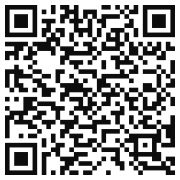
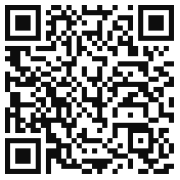
update

diff --git a/advanced/frontend/controllers/ItemController.php b/advanced/frontend/controllers/ItemController.php
@@ -92,22 +92,22 @@ class ItemController extends Controller
                 $transaction = Yii::$app->db->beginTransaction();
                 try
                 {
-              
                 $jobini=Jobs::findOne($model->namav);
                 $nie=$jobini->nie;
                 $gtin=$jobini->gtin;
                 $i++;
                 $lot=$model->lot;
                 $expire=$model->expired;
-                $serial=substr($nie, 3,6).substr($lot,2,3);
+                $serial=substr($nie, 5,6).substr($lot,3,3);
                 $mulai2=intval($model->jumlah);
                 $job =new Itemmaster();
                 $job->nama=$model->nama;
                 $job->save();
                 $idmaster=$job->id;
+                $belakang=-1*$mulai2;
                 for($mulai1=1;$mulai1<=$mulai2;$mulai1++)
                 {
-                $kodesn=$serial. substr("0000000000".$mulai1, -1 * intval($mulai2));
+                $kodesn=$serial. substr("000000".$mulai1,-3);
                 $barang = New Item();
                 $barang->var_1 = $nie;
                 $barang->var_2 = $gtin;
@@ -277,7 +277,7 @@ class ItemController extends Controller
                     $mdet->save();
                 }
                     $transaction->commit();
-                    Yii::$app->session->setFlash('success', $i.' rows Success ');
+                    Yii::$app->session->setFlash('success', $mulai1.' rows Generate Success ');
                 }
                 catch(Exception $e)
                 {

diff --git a/advanced/frontend/models/Item.php b/advanced/frontend/models/Item.php
@@ -38,9 +38,9 @@ class Item extends \yii\db\ActiveRecord
             //[['var_1'], 'string', 'max' => 200],
             [['var_1','var_2'], 'string','min' => 14, 'max' => 14],
             //[['var_4'], 'string','min' => 12, 'max' => 12],
+            [['var_3'], 'string', 'max' => 12],
             [['var_4'], 'string', 'max' => 12],
             [['biner'], 'string', 'max' => 500],
-            [['var_3'], 'string', 'max' => 12],
             //[['var_4'], 'string', 'min'=>6,'max' => 6],
             [['var_5'], 'string', 'max' => 50],
         ];

diff --git a/advanced/frontend/views/job/_columns.php b/advanced/frontend/views/job/_columns.php
@@ -30,7 +30,7 @@ return [
         'class' => 'kartik\grid\ActionColumn',
         'dropdown' => false,
         'noWrap' => 'true',
-        'template' => '{view} {print}',
+        'template' => '{view} {print}{delete}',
         'vAlign' => 'middle',
         'urlCreator' => function($action, $model, $key, $index) { 
                 return Url::to([$action,'id'=>$key]);

diff --git a/samp.php b/samp.php
@@ -5,7 +5,7 @@
                         $serial="98ADJ002";
                         for($x=0;$x<=$y;$x++)
                         {
-                            $kodesn=$serial. substr("0000".$x, -1*$jj);
+                            $kodesn=$serial. substr("00000000".$x, -1*$jj);
                             echo $kodesn."<br/>";
                         }
 

diff --git a/advanced/frontend/themes/lte3/views/layouts/main.php b/advanced/frontend/themes/lte3/views/layouts/main.php
@@ -4,7 +4,7 @@
 /* @var $content string */
 
 use yii\helpers\Html;
-
+//error_reporting(0);
 \hail812\adminlte3\assets\FontAwesomeAsset::register($this);
 \hail812\adminlte3\assets\AdminLteAsset::register($this);
 $this->registerCssFile('https://fonts.googleapis.com/css?family=Source+Sans+Pro:300,400,400i,700&display=fallback');

diff --git a/advanced/frontend/views/itemp/view.php b/advanced/frontend/views/itemp/view.php
@@ -82,7 +82,7 @@ use yii\widgets\DetailView;
 
             <?php 
             // or even as data:uri url
-            echo '<img src="' . $qrCode->writeDataUri() . '" class="center">';
+            echo '<img src="' . $qrCode->writeDataUri() . '" class="center" style="width:250px">';
             ?>
 
             
